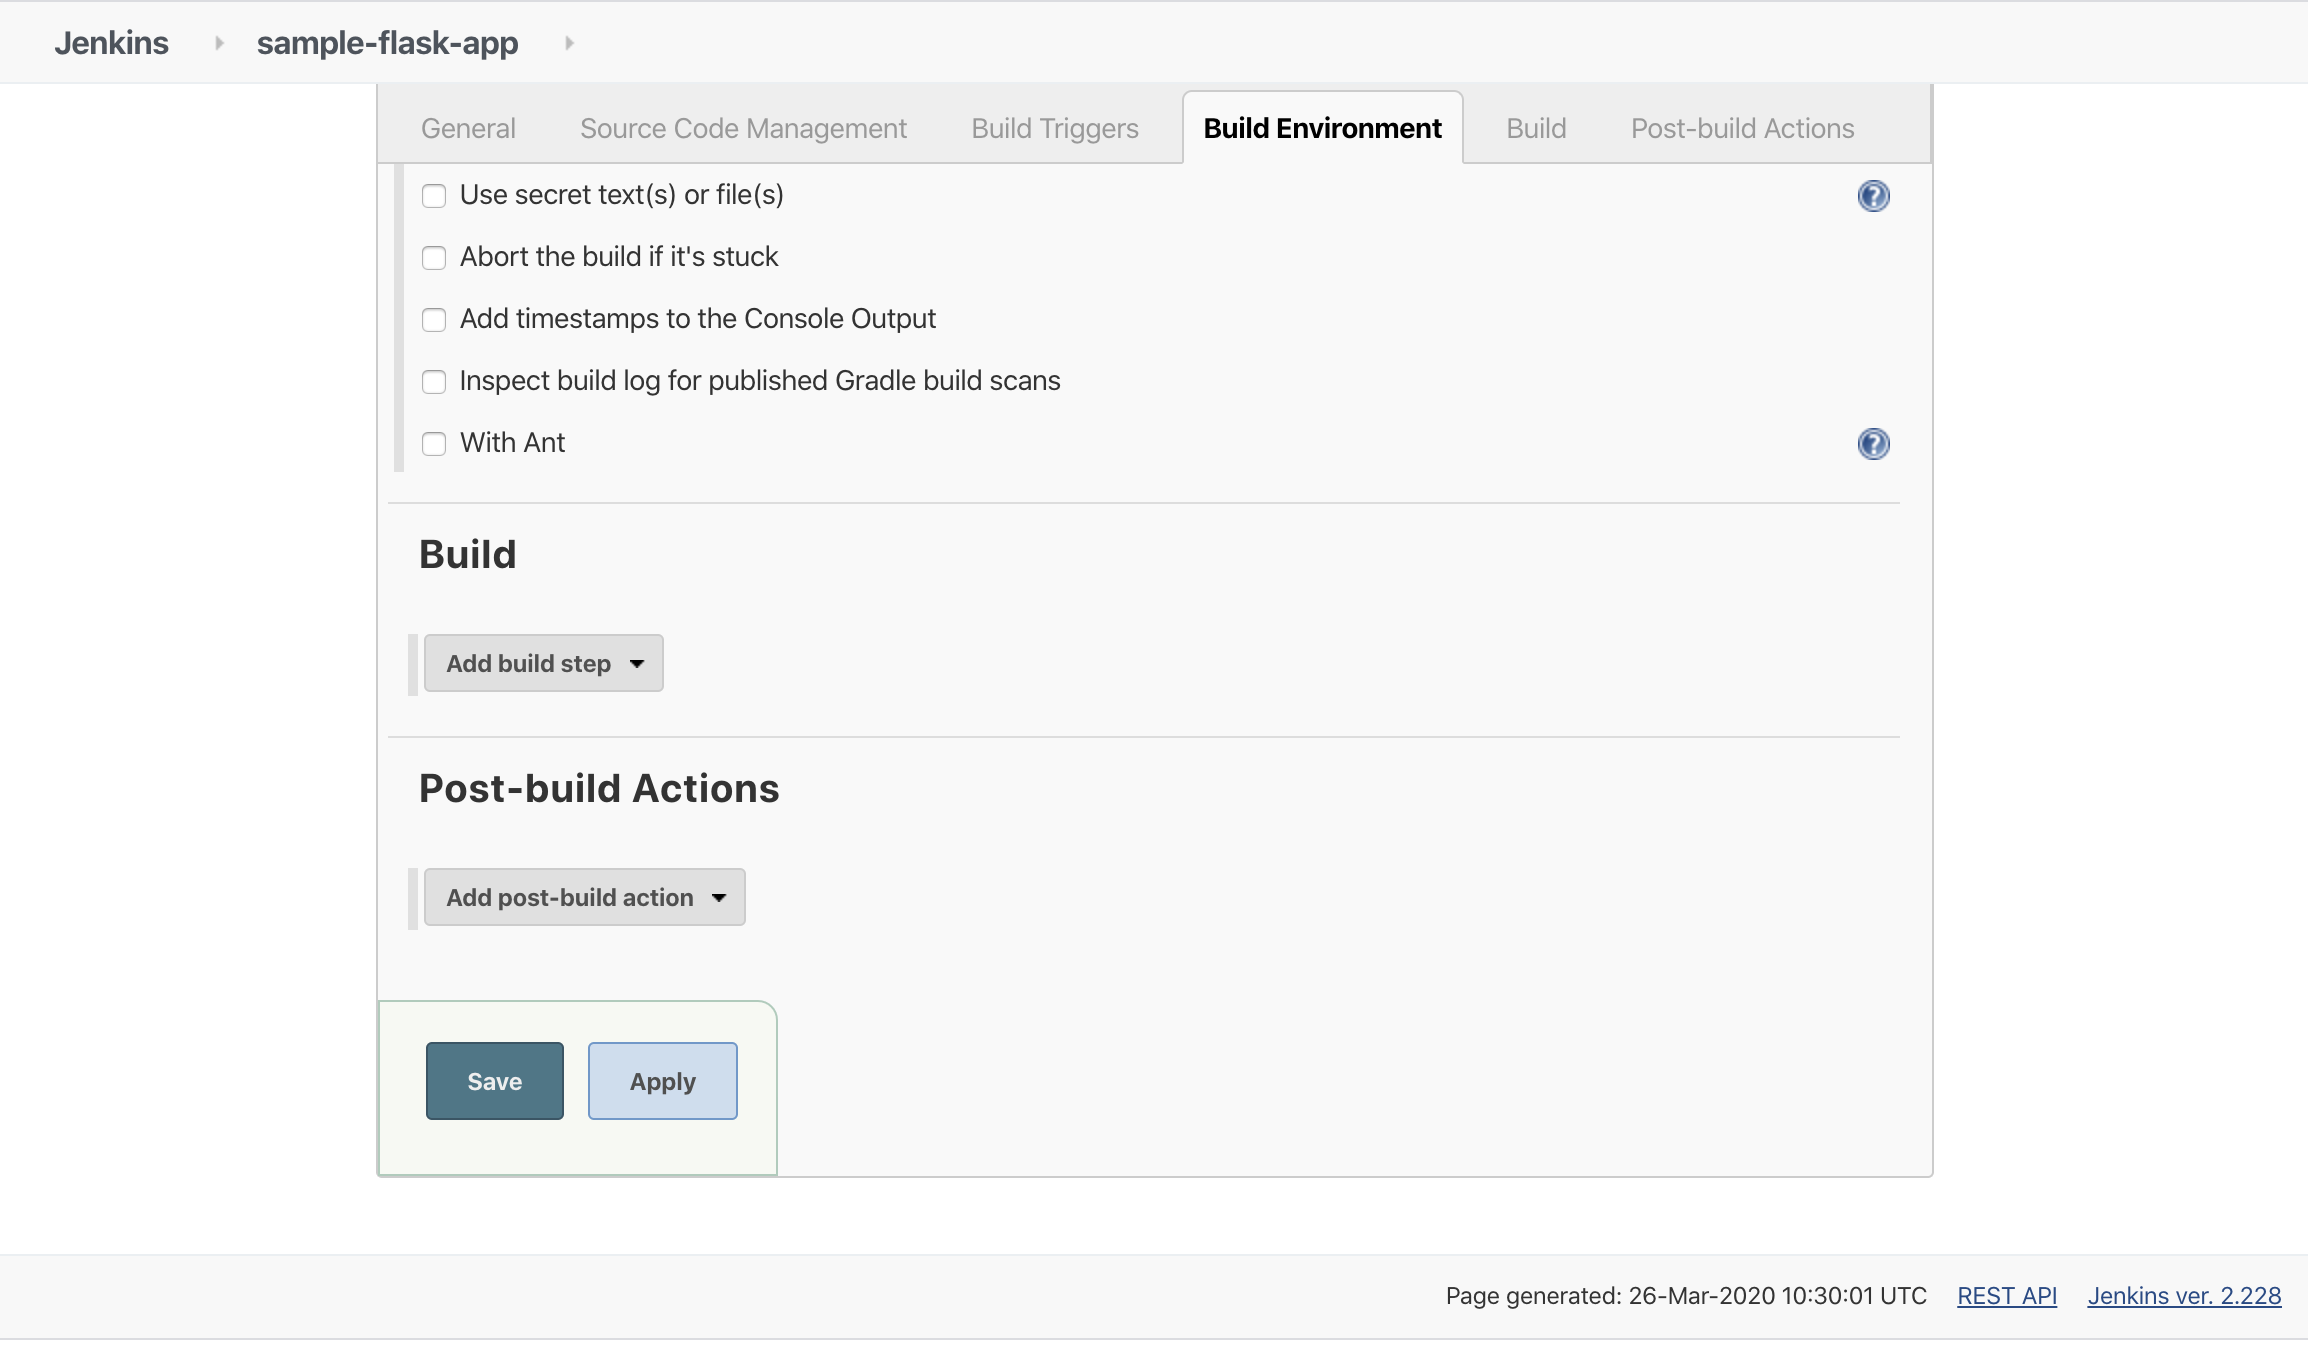
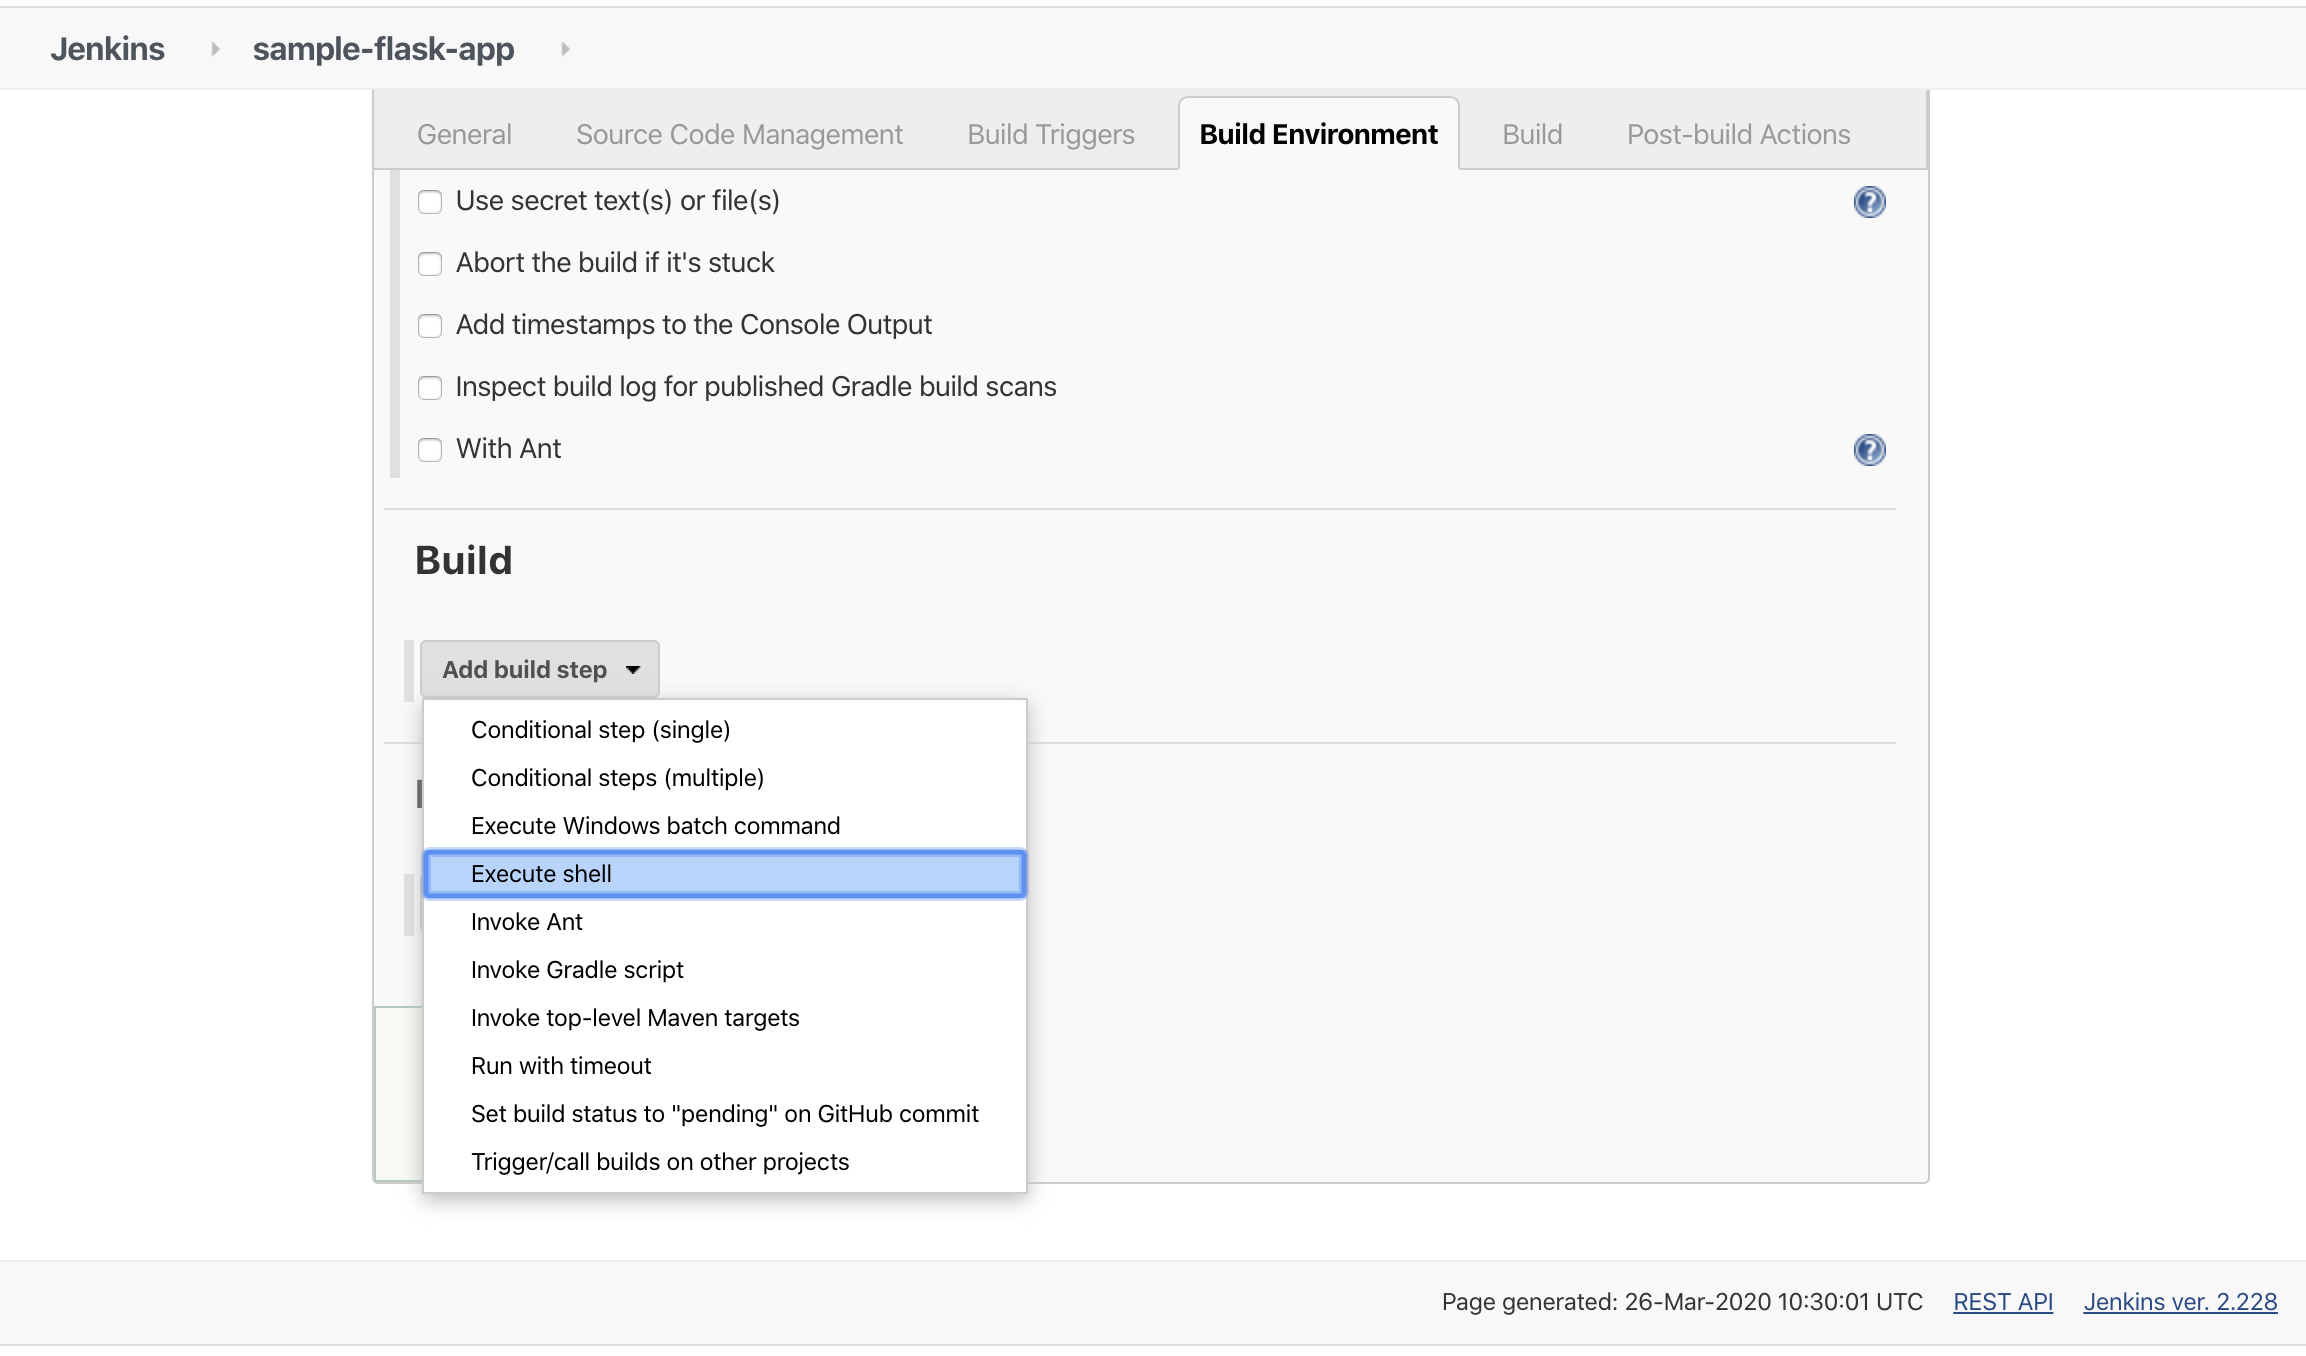
update instructions

diff --git a/building-the-pipeline.md b/building-the-pipeline.md
@@ -1,13 +1,39 @@
 # Building the pipeline
 
-Select 'New item', enter the name 'AppSec 101' for the project, select 'Feestyle project' and click 'OK'
+From the side menu select 'New item'
 
-- Select source code management: git and enter the HTTPS URL of your fork of the `sample-flask-app` repository
-- Under the heading 'Build' select 'Add build step' > 'Execute shell'
-  In the 'Command' box enter: `docker-compose down; docker-compose up -d; sleep 10; docker-compose logs`
-- Save
-- Build Now
-- On the command line on your host machine, enter `docker ps` and you will see the app running.
-- In the browser, browse to 'localhost:8000' to see your app.
+![](images/8.png)
 
-This will execute the flask app on the jenkins server.
+Enter the name 'sample-flask-app' for the project, select 'Feestyle project' and click 'OK'
+
+The deployment pipeline configuration will look like the following:
+
+![](images/9.png)
+
+Under the heading 'Source Code Management', select the 'Git' radio button.
+Enter the URL of your fork of the `sample-flask-app` repository. e.g. `https://github.com/wilvk/sample-flask-app`
+
+![](images/11.png)
+
+Under the heading 'Build' select 'Add build step' > 'Execute shell'.
+
+![](images/12.png)
+
+In the 'Command' box enter the following: 
+
+```
+docker-compose down
+docker-compose up -d
+sleep 30
+docker-compose logs
+```
+
+![](images/13.png)
+
+Select 'Save'. Then from the main Jenkins menu select 'Build Now'.
+
+![](images/14.png)
+
+Once the build has finished, browse to `localhost:8000` to see your app.
+
+![](images/14.png)
